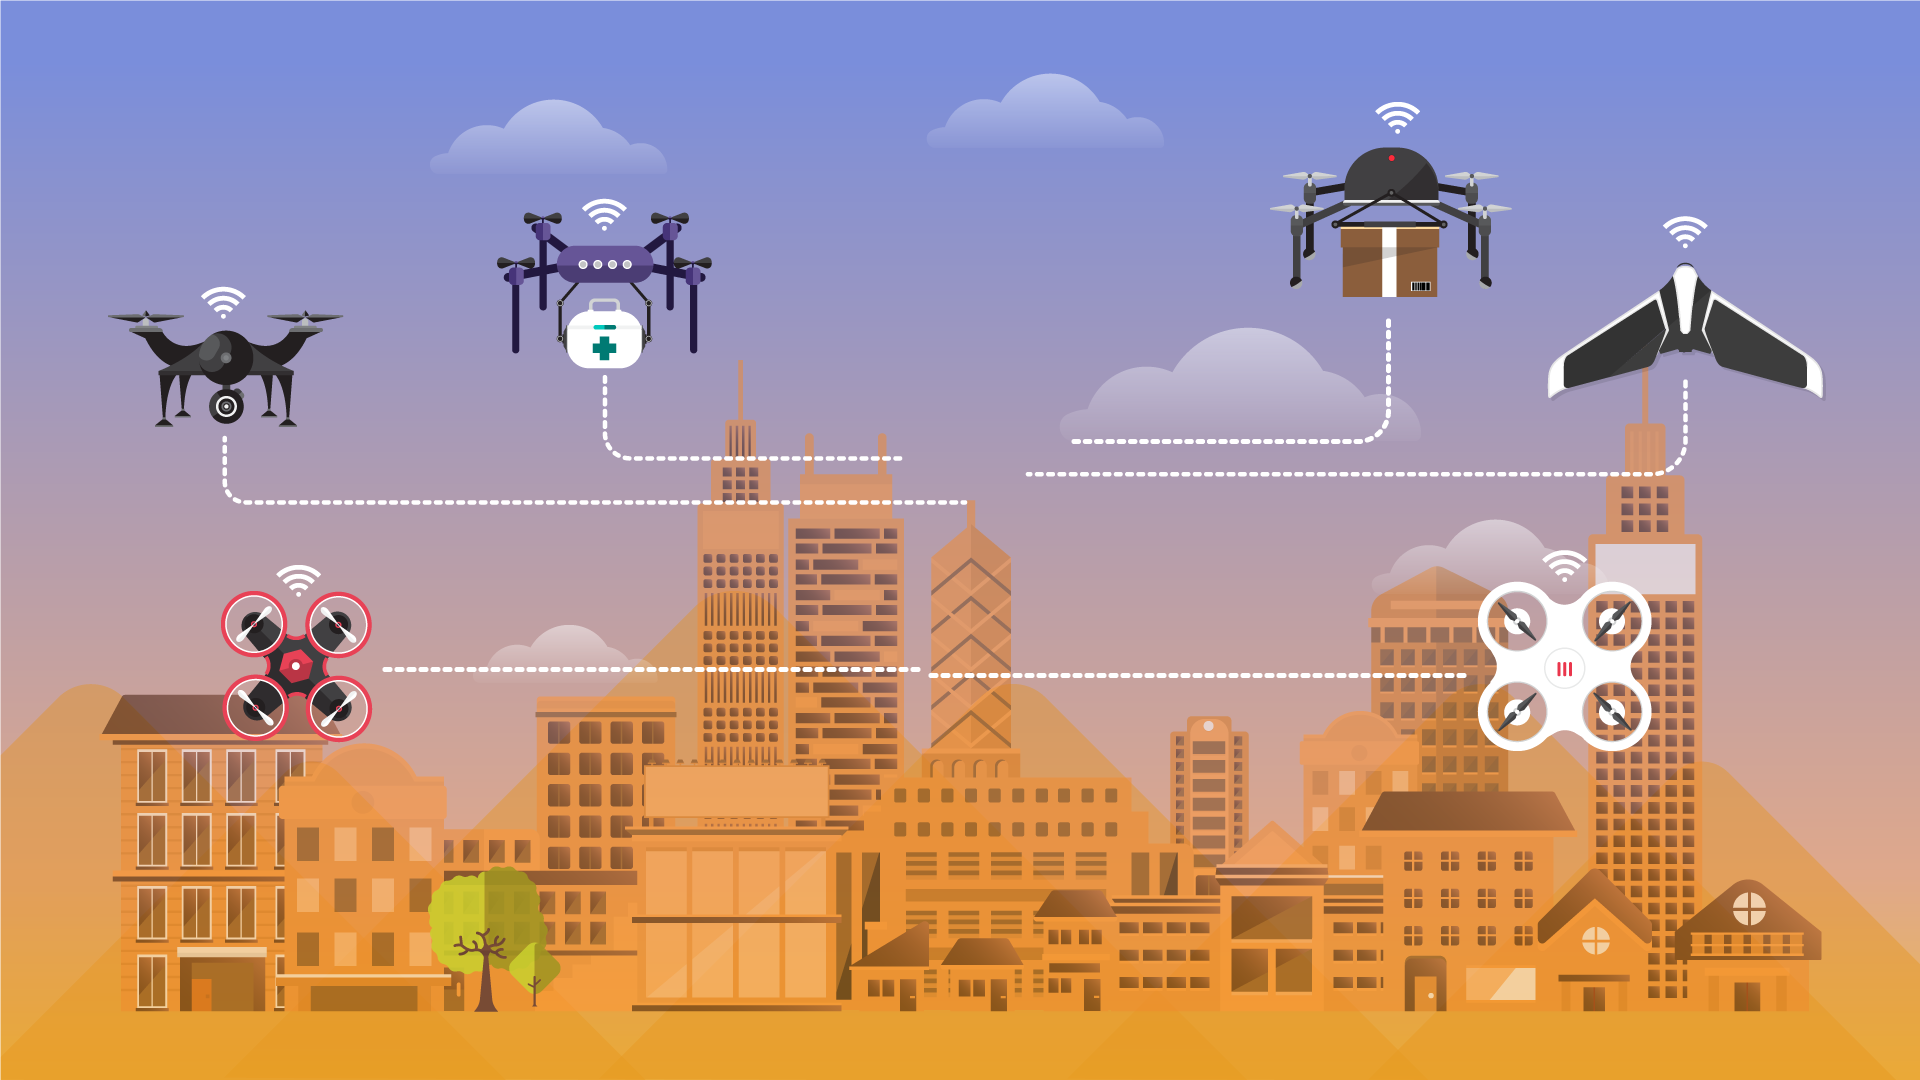
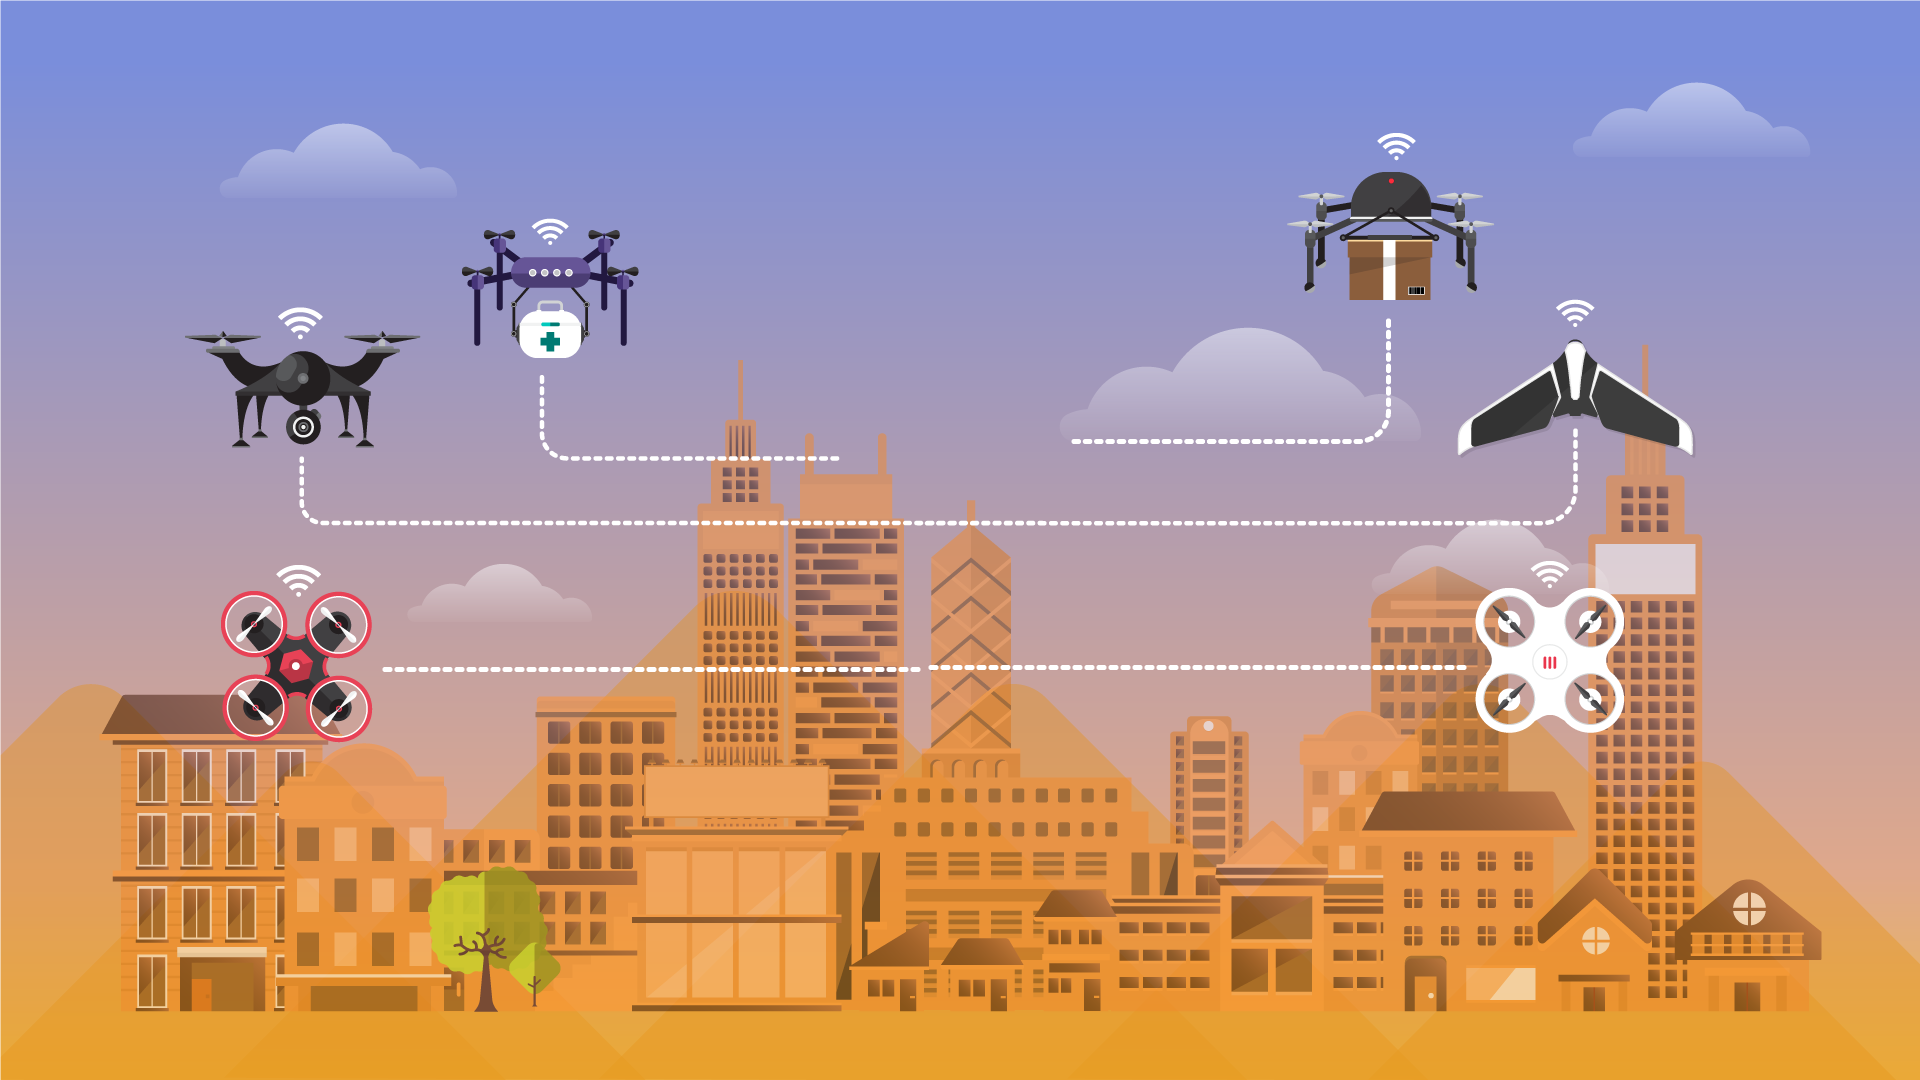
Add new background, clean up firebase properties

diff --git a/public/index.html b/public/index.html
@@ -109,13 +109,7 @@
 
     <!-- Firebase init -->
     <script>
-    var config = {
-      apiKey: "AIzaSyAwQ8-NOZGEyertefGlv0xeWw3L3nymwiE",
-      authDomain: "dronesmith-sso.firebaseapp.com",
-      databaseURL: "dronesmith-sso.firebaseio.com",
-      storageBucket: "dronesmith-sso.appspot.com",
-    };
-    firebase.initializeApp(config);
+      firebase.initializeApp(DSSProps.firebase);
     </script>
 
     <script>

diff --git a/public/properties.js b/public/properties.js
@@ -13,6 +13,12 @@
 // TODO temp fix. This will be improved upon
 
 var DSSProps = {
+  firebase: {
+    apiKey: "AIzaSyAwQ8-NOZGEyertefGlv0xeWw3L3nymwiE",
+    authDomain: "dronesmith-sso.firebaseapp.com",
+    databaseURL: "dronesmith-sso.firebaseio.com",
+    storageBucket: "dronesmith-sso.appspot.com",
+  },
   promo: {
     normal: "ws://cloud.dronesmith.io:8084/",
     thermal: "ws://cloud.dronesmith.io:8085/"

diff --git a/public/app/components/loginPane/loginPane.controller.js b/public/app/components/loginPane/loginPane.controller.js
@@ -17,7 +17,6 @@ angular
   .controller('LoginPaneCtrl', function ($scope, $state, Session, Error, Stream) {
 
     $scope.update = function(user) {
-      console.log(user);
       Session
         .authenticate(user)
         .$promise
